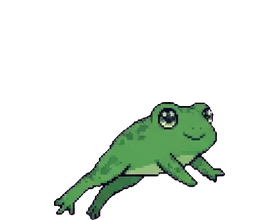
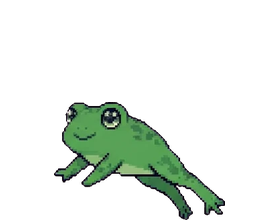
Fix frog leap direction, ground the foreground layer, rarer potions
Claude-Session: https://claude.ai/code/session_01J9NCfWgs9eBq1qjdwjHxHL

Changed region(s): [[0.1714, 0.4636, 0.8, 1.0]]

diff --git a/tools/prep_monsters.py b/tools/prep_monsters.py
@@ -18,6 +18,10 @@ SHEETS = [
 ]
 
 
+# เฟรมที่ AI วาดหันผิดด้าน (ต้องหันซ้ายเหมือนเฟรมอื่น) ให้กลับด้าน
+FLIP = {("frog", "hop_1")}
+
+
 def key_out(im, lo, hi):
     a = np.asarray(im.convert("RGB")).astype(np.float32)
     r, g, b = a[..., 0], a[..., 1], a[..., 2]
@@ -79,6 +83,8 @@ for src, name, rows, names, ref, target_h, canvas_size, (lo, hi) in SHEETS:
     s = scales[name]
     for fname, fr in zip(names, frames):
         im = Image.fromarray(fr, "RGBA")
+        if (name, fname) in FLIP:
+            im = im.transpose(Image.FLIP_LEFT_RIGHT)
         im = im.resize((max(1, round(im.width * s)), max(1, round(im.height * s))), Image.LANCZOS)
         canvas = Image.new("RGBA", canvas_size, (0, 0, 0, 0))
         canvas.alpha_composite(im, ((canvas_size[0] - im.width) // 2, canvas_size[1] - im.height))
